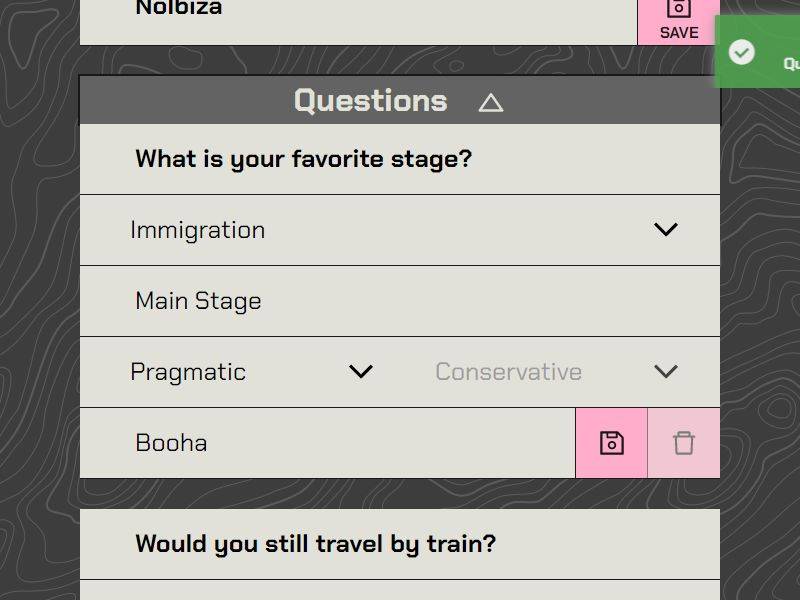
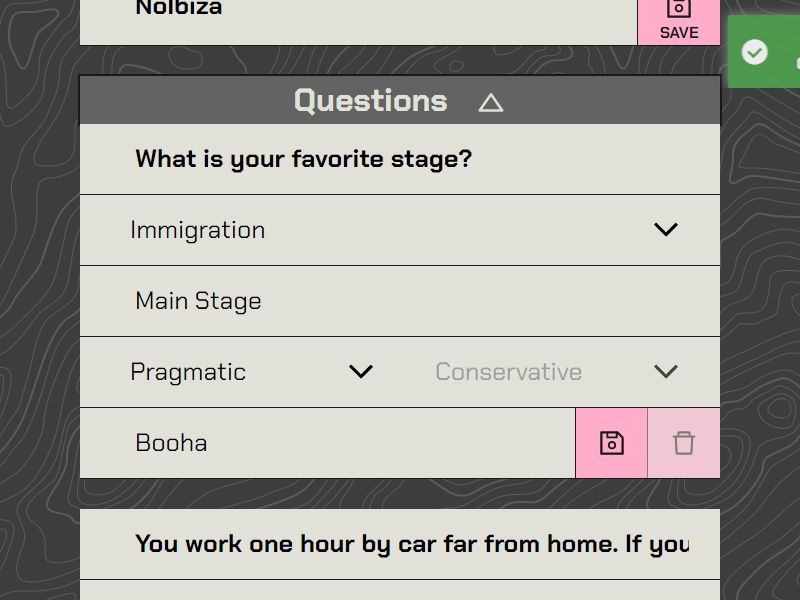
fixed checks

Changed region(s): [[0.1562, 0.87, 0.875, 0.93], [0.875, 0.0, 1.0, 0.15]]

diff --git a/src/tests/App.test.ts b/src/tests/App.test.ts
@@ -137,11 +137,11 @@ describe("Feature 1 - Questions database and display", () => {
   });
 
   test("Check Questions", async () => {
-     await checkQuestion(1,"Would you permanently  welcome the people in your own home?", "Yes", "No");
-     await checkQuestion(2,"Would you still travel by train?", "Yes", "No");
-     await checkQuestion(3,"Would you stop eating fish risking your own health?", "Yes", "No");
-     await checkQuestion(4,"Would you close the heating?", "Yes", "No");
-     await checkQuestion(5,"Would you eat the whole piece of bread?", "Yes", "No");
+     await checkQuestion(1,"Would you welcome permanently people in mortal danger in your own home, sharing therefore with them your own food, water and salary?", "Yes", "No");
+     await checkQuestion(2,"You work one hour by car far from home. If you travel by train you pollute less, but it takes two hours. Would you still travel by train?", "Yes", "No");
+     await checkQuestion(3,"In order to be healthy your doctor prescribed a fish-based diet. Your fish is mass-bred andsavagely slaughtered while it`s still alive. Would you stop eating fish risking your own health?", "Yes", "No");
+     await checkQuestion(4,"In your country a retirement home with 20 old people needs a high amount of heating in order to keep them healthy. It`s proven that high heating consumption rises the CO2 level, which can end in floods that put at risk the life of an entire village in the other part of the world. Would you close the heating?", "Yes", "No");
+     await checkQuestion(5,"You are in a hole with another person, and both of you are too weak to come out. There is just a piece of bread. If you both eat the bread you will endure a bit longer, but you both are eventually going to die. If you only eat the bread, you will save yourself, but the other person will die. Would you eat the whole piece of bread?", "Yes", "No");
   });
 
   test("Edit Question", async () => {
@@ -190,7 +190,7 @@ describe("Feature 1 - Questions database and display", () => {
       path: 'screenshots/feature1/afterreload.jpg'
     });
     await adminPage.waitForSelector('[e2e-id="question1EditDelete"]');
-    await checkQuestion(1,"Would you still travel by train?", "Yes", "No");
+    await checkQuestion(1,"You work one hour by car far from home. If you travel by train you pollute less, but it takes two hours. Would you still travel by train?", "Yes", "No");
   });
 
   test("Go back", async () => {
